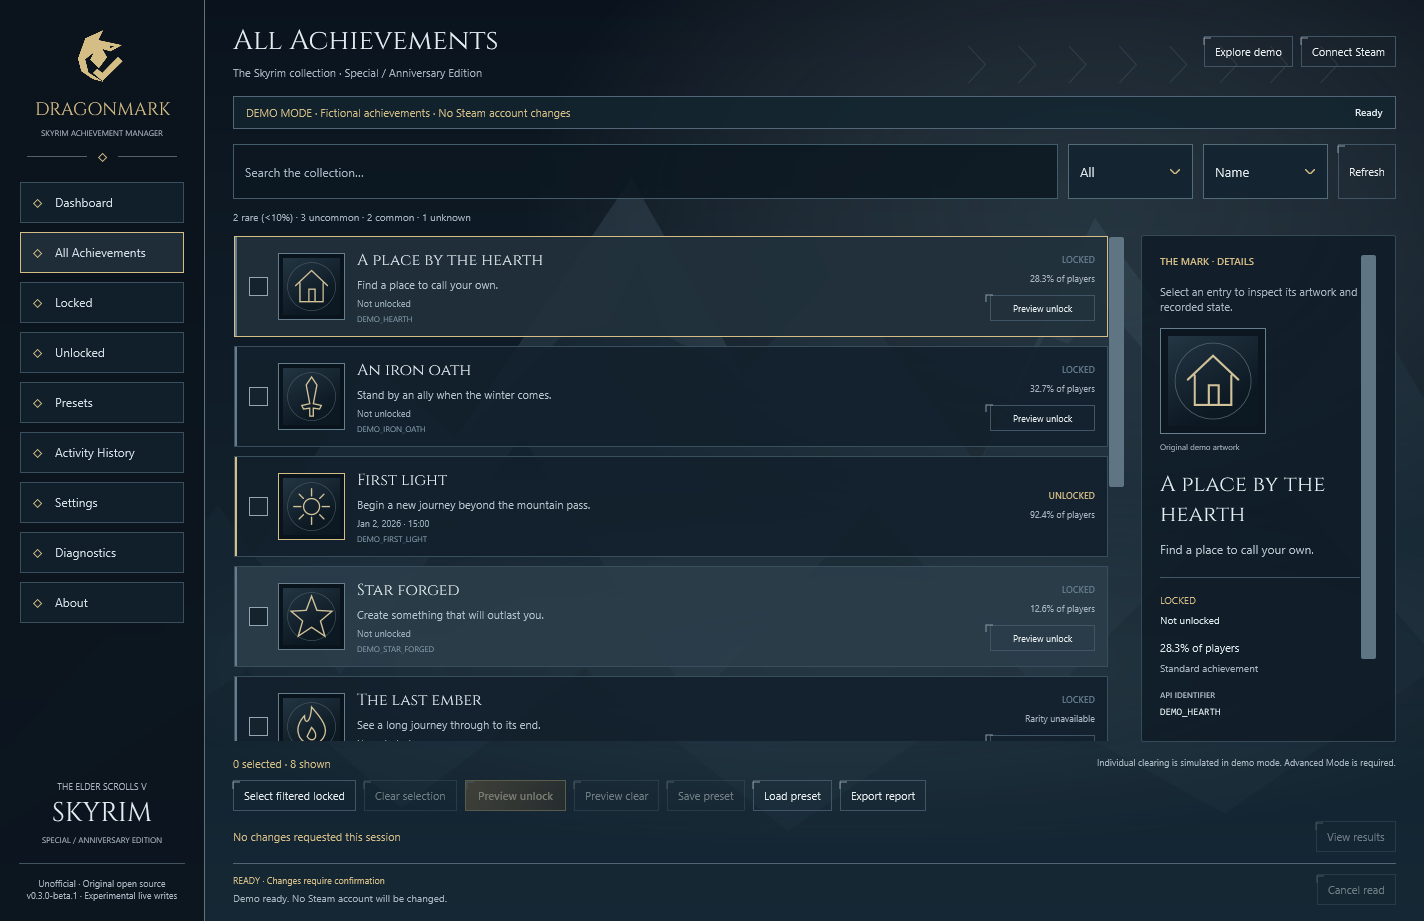
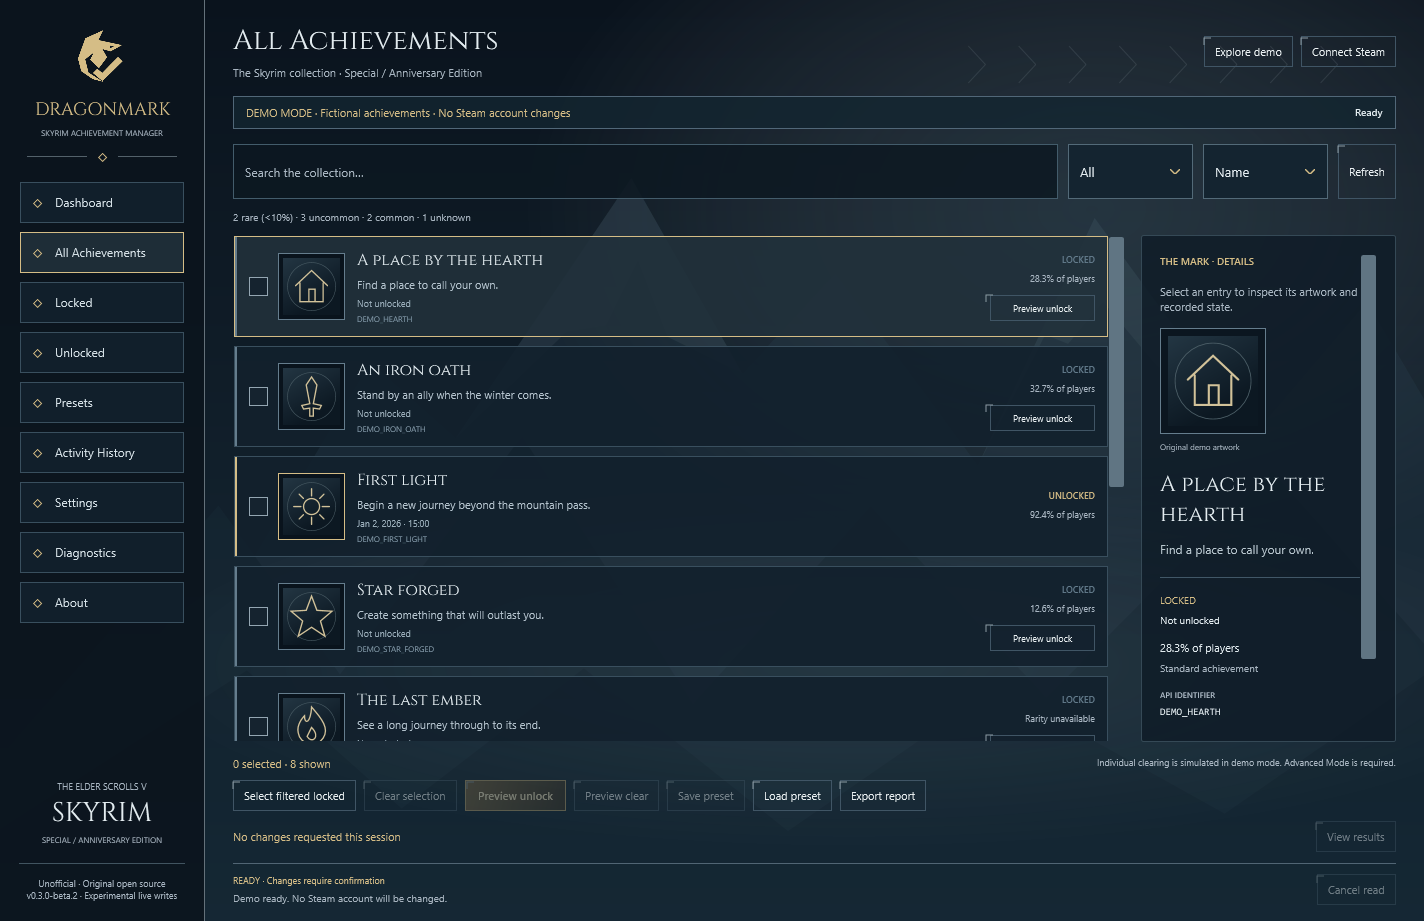
Remove local build paths from release binaries and enforce package privacy

Changed region(s): [[0.1545, 0.608, 0.8034, 0.7296]]

diff --git a/README.tr.md b/README.tr.md
@@ -3,7 +3,7 @@
 ![Dragonmark — Your achievements. A clearer view.](assets/branding/hero.png)
 
 [![Derleme ve test](https://github.com/Memo-B/dragonmark-skyrim-achievement-manager/actions/workflows/ci.yml/badge.svg)](https://github.com/Memo-B/dragonmark-skyrim-achievement-manager/actions/workflows/ci.yml)
-[![Genel beta](https://img.shields.io/badge/release-0.3.0--beta.1-D8BB7D)](https://github.com/Memo-B/dragonmark-skyrim-achievement-manager/releases/tag/v0.3.0-beta.1)
+[![Genel beta](https://img.shields.io/badge/release-0.3.0--beta.1-D8BB7D)](https://github.com/Memo-B/dragonmark-skyrim-achievement-manager/releases/tag/v0.3.0-beta.2)
 [![Windows x64](https://img.shields.io/badge/platform-Windows_x64-0078D4)](docs/compatibility.md)
 [![MIT lisansı](https://img.shields.io/badge/license-MIT-D8BB7D)](LICENSE)
 
@@ -11,7 +11,7 @@
 
 Dragonmark, **Skyrim Special Edition / Anniversary Edition Steam başarımlarını** yönetmek için geliştirilmiş ücretsiz ve açık kaynaklı bir Windows uygulamasıdır. Gerçek Steam görselleriyle koleksiyonunu inceleyebilir, seçtiğin başarımları veya kilitli başarımların tamamını **tek bir açık onayla** açabilirsin.
 
-**[Windows yükleyicisini indir](https://github.com/Memo-B/dragonmark-skyrim-achievement-manager/releases/download/v0.3.0-beta.1/Dragonmark-v0.3.0-beta.1-win-x64-Setup.exe)** · **[Sürüm notları ve dosya özetleri](https://github.com/Memo-B/dragonmark-skyrim-achievement-manager/releases/tag/v0.3.0-beta.1)** · [Taşınabilir ZIP](https://github.com/Memo-B/dragonmark-skyrim-achievement-manager/releases/download/v0.3.0-beta.1/Dragonmark-v0.3.0-beta.1-win-x64.zip)
+**[Windows yükleyicisini indir](https://github.com/Memo-B/dragonmark-skyrim-achievement-manager/releases/download/v0.3.0-beta.2/Dragonmark-v0.3.0-beta.2-win-x64-Setup.exe)** · **[Sürüm notları ve dosya özetleri](https://github.com/Memo-B/dragonmark-skyrim-achievement-manager/releases/tag/v0.3.0-beta.2)** · [Taşınabilir ZIP](https://github.com/Memo-B/dragonmark-skyrim-achievement-manager/releases/download/v0.3.0-beta.2/Dragonmark-v0.3.0-beta.2-win-x64.zip)
 
 [English](README.md) · [Türkçe](README.tr.md) · [Kurulum](docs/installation.md) · [Sorun giderme](docs/troubleshooting.md) · [Yol haritası](ROADMAP.md)
 
@@ -21,7 +21,7 @@ Dragonmark, **Skyrim Special Edition / Anniversary Edition Steam başarımların
 
 ## Üç adımda başla
 
-1. **Kur.** `Dragonmark-v0.3.0-beta.1-win-x64-Setup.exe` dosyasını indirip çalıştır. **Download the verified Steam connection component** seçeneğini seçili bırak. .NET pakete dahildir; küçük Steam bileşenini kurulum indirir. SDK, elle DLL kopyalama veya yönetici yetkisi gerekmez.
+1. **Kur.** `Dragonmark-v0.3.0-beta.2-win-x64-Setup.exe` dosyasını indirip çalıştır. **Download the verified Steam connection component** seçeneğini seçili bırak. .NET pakete dahildir; küçük Steam bileşenini kurulum indirir. SDK, elle DLL kopyalama veya yönetici yetkisi gerekmez.
 2. **Bağlan.** Steam'i açıp Skyrim SE/AE'ye sahip hesabına giriş yap. Başlat menüsünden Dragonmark'ı aç ve **Connect Steam** düğmesine bas.
 3. **İncele ve aç.** Tek tek başarımlar seç veya **Unlock All** düğmesini kullan. Hedef sayısını incele, bir kez onayla ve sonuçları kontrol et.
 
@@ -97,8 +97,8 @@ Yükleyici ve uygulama **dijital olarak imzalanmamıştır**; SmartScreen bilinm
 Aynı sürümden yükleyiciyi ve `.sha256` dosyasını indirip karşılaştır:
 
 ```powershell
-Get-FileHash .\Dragonmark-v0.3.0-beta.1-win-x64-Setup.exe -Algorithm SHA256
-Get-Content .\Dragonmark-v0.3.0-beta.1-win-x64-Setup.exe.sha256
+Get-FileHash .\Dragonmark-v0.3.0-beta.2-win-x64-Setup.exe -Algorithm SHA256
+Get-Content .\Dragonmark-v0.3.0-beta.2-win-x64-Setup.exe.sha256
 ```
 
 Kurulum, Steam bileşenini sabitlenmiş resmî Steamworks.NET etiketinden HTTPS ile indirir ve SHA-256 eşleşmezse reddeder. Uygulamanın kendisi çalıştırılabilir kod indirmez. Valve DLL'si yayımlanan yükleyici veya ZIP'in içine gömülmez. Dosya özeti bütünlüğü denetler; ilgisiz bir indirme sitesinin güvenilirliğini kanıtlamaz.

diff --git a/README.md b/README.md
@@ -3,7 +3,7 @@
 ![Dragonmark — Your achievements. A clearer view.](assets/branding/hero.png)
 
 [![Build and test](https://github.com/Memo-B/dragonmark-skyrim-achievement-manager/actions/workflows/ci.yml/badge.svg)](https://github.com/Memo-B/dragonmark-skyrim-achievement-manager/actions/workflows/ci.yml)
-[![Public beta](https://img.shields.io/badge/release-0.3.0--beta.1-D8BB7D)](https://github.com/Memo-B/dragonmark-skyrim-achievement-manager/releases/tag/v0.3.0-beta.1)
+[![Public beta](https://img.shields.io/badge/release-0.3.0--beta.1-D8BB7D)](https://github.com/Memo-B/dragonmark-skyrim-achievement-manager/releases/tag/v0.3.0-beta.2)
 [![Windows x64](https://img.shields.io/badge/platform-Windows_x64-0078D4)](docs/compatibility.md)
 [![MIT license](https://img.shields.io/badge/license-MIT-D8BB7D)](LICENSE)
 
@@ -11,7 +11,7 @@
 
 Dragonmark is a free, open-source Windows application for **Skyrim Special Edition / Anniversary Edition Steam achievements**. Browse authentic achievement artwork, inspect progress and rarity, unlock selected entries, or unlock every missing achievement with **one explicit confirmation**.
 
-**[Download Windows installer](https://github.com/Memo-B/dragonmark-skyrim-achievement-manager/releases/download/v0.3.0-beta.1/Dragonmark-v0.3.0-beta.1-win-x64-Setup.exe)** · **[Release notes & checksums](https://github.com/Memo-B/dragonmark-skyrim-achievement-manager/releases/tag/v0.3.0-beta.1)** · [Portable ZIP](https://github.com/Memo-B/dragonmark-skyrim-achievement-manager/releases/download/v0.3.0-beta.1/Dragonmark-v0.3.0-beta.1-win-x64.zip)
+**[Download Windows installer](https://github.com/Memo-B/dragonmark-skyrim-achievement-manager/releases/download/v0.3.0-beta.2/Dragonmark-v0.3.0-beta.2-win-x64-Setup.exe)** · **[Release notes & checksums](https://github.com/Memo-B/dragonmark-skyrim-achievement-manager/releases/tag/v0.3.0-beta.2)** · [Portable ZIP](https://github.com/Memo-B/dragonmark-skyrim-achievement-manager/releases/download/v0.3.0-beta.2/Dragonmark-v0.3.0-beta.2-win-x64.zip)
 
 [English](README.md) · [Türkçe](README.tr.md) · [Installation](docs/installation.md) · [Troubleshooting](docs/troubleshooting.md) · [Roadmap](ROADMAP.md)
 
@@ -21,7 +21,7 @@ Dragonmark is a free, open-source Windows application for **Skyrim Special Editi
 
 ## Start in three steps
 
-1. **Install.** Download `Dragonmark-v0.3.0-beta.1-win-x64-Setup.exe` and run it. Leave **Download the verified Steam connection component** selected. Setup includes .NET and handles the small Steam component download; no SDK, manual DLL copying or administrator rights are needed.
+1. **Install.** Download `Dragonmark-v0.3.0-beta.2-win-x64-Setup.exe` and run it. Leave **Download the verified Steam connection component** selected. Setup includes .NET and handles the small Steam component download; no SDK, manual DLL copying or administrator rights are needed.
 2. **Connect.** Start Steam, sign in to your account with Skyrim SE/AE, launch Dragonmark from the Start Menu and click **Connect Steam**.
 3. **Review and unlock.** Select individual achievements or click **Unlock All**. Review the target count, confirm once, then inspect the results.
 
@@ -97,8 +97,8 @@ The installer and app are **unsigned**, so Windows SmartScreen may show an unkno
 Download the installer and its `.sha256` file from the same release, then compare:
 
 ```powershell
-Get-FileHash .\Dragonmark-v0.3.0-beta.1-win-x64-Setup.exe -Algorithm SHA256
-Get-Content .\Dragonmark-v0.3.0-beta.1-win-x64-Setup.exe.sha256
+Get-FileHash .\Dragonmark-v0.3.0-beta.2-win-x64-Setup.exe -Algorithm SHA256
+Get-Content .\Dragonmark-v0.3.0-beta.2-win-x64-Setup.exe.sha256
 ```
 
 Setup retrieves its Steam component from a pinned official Steamworks.NET tag over HTTPS and rejects a mismatched SHA-256. The application itself never downloads executable code. The Valve native binary is not embedded in the published installer or ZIP. A checksum checks integrity; it does not establish trust in an unrelated download site.

diff --git a/docs/PUBLISHING.md b/docs/PUBLISHING.md
@@ -1,6 +1,6 @@
 # Publishing Dragonmark
 
-Repository: [Memo-B/dragonmark-skyrim-achievement-manager](https://github.com/Memo-B/dragonmark-skyrim-achievement-manager). The owner authorized the first source push and public release after reporting successful individual unlock and Unlock All tests. The first public version is **0.3.0-beta.1**, a prerelease with explicit remaining compatibility checks.
+Repository: [Memo-B/dragonmark-skyrim-achievement-manager](https://github.com/Memo-B/dragonmark-skyrim-achievement-manager). The owner authorized the first source push and public release after reporting successful individual unlock and Unlock All tests. The first public version is **0.3.0-beta.2**, a prerelease with explicit remaining compatibility checks.
 
 ## Build and review
 
@@ -27,7 +27,7 @@ git add .
 git diff --cached --check
 git diff --cached --stat
 git diff --cached
-git commit -m "Release Dragonmark 0.3.0-beta.1 with Windows installer"
+git commit -m "Release Dragonmark 0.3.0-beta.2 with Windows installer"
 git push -u origin main
 ```
 
@@ -38,8 +38,8 @@ gh run list --repo Memo-B/dragonmark-skyrim-achievement-manager
 gh run watch RUN_ID --repo Memo-B/dragonmark-skyrim-achievement-manager --exit-status
 $metadata = Get-Content .github/repository-metadata.json -Raw | ConvertFrom-Json
 gh repo edit $metadata.repository --description $metadata.description --add-topic ($metadata.topics -join ',')
-git tag -a v0.3.0-beta.1 -m "Dragonmark 0.3.0-beta.1 public beta"
-git push origin v0.3.0-beta.1
+git tag -a v0.3.0-beta.2 -m "Dragonmark 0.3.0-beta.2 public beta"
+git push origin v0.3.0-beta.2
 ```
 
 The metadata file contains the exact About description and 15 relevant topics. No homepage or SKSE integration is invented. Upload `assets/branding/social-preview.png` through **Repository Settings → General → Social preview**. Current screenshots appear in both READMEs and tag-scoped release notes.
@@ -47,7 +47,7 @@ The metadata file contains the exact About description and 15 relevant topics. N
 ## Publish the reviewed artifacts
 
 ```powershell
-gh release create v0.3.0-beta.1 .\artifacts\Dragonmark-v0.3.0-beta.1-win-x64-Setup.exe .\artifacts\Dragonmark-v0.3.0-beta.1-win-x64-Setup.exe.sha256 .\artifacts\Dragonmark-v0.3.0-beta.1-win-x64.zip .\artifacts\Dragonmark-v0.3.0-beta.1-win-x64.zip.sha256 --repo Memo-B/dragonmark-skyrim-achievement-manager --verify-tag --prerelease --title "Dragonmark 0.3.0-beta.1 — Windows installer" --notes-file .\artifacts\RELEASE_NOTES-v0.3.0-beta.1.md
+gh release create v0.3.0-beta.2 .\artifacts\Dragonmark-v0.3.0-beta.2-win-x64-Setup.exe .\artifacts\Dragonmark-v0.3.0-beta.2-win-x64-Setup.exe.sha256 .\artifacts\Dragonmark-v0.3.0-beta.2-win-x64.zip .\artifacts\Dragonmark-v0.3.0-beta.2-win-x64.zip.sha256 --repo Memo-B/dragonmark-skyrim-achievement-manager --verify-tag --prerelease --title "Dragonmark 0.3.0-beta.2 — Windows installer" --notes-file .\artifacts\RELEASE_NOTES-v0.3.0-beta.2.md
 ```
 
 Verify all four public assets and their checksums after publication. Use the explicit version's release URL in documentation because GitHub's `/releases/latest` excludes prereleases. Do not claim passing hosted checks from local tests alone. Future versions should bump `Directory.Build.props`, regenerate screenshots, update documentation, rebuild and repeat validation.

diff --git a/RELEASE_NOTES.md b/RELEASE_NOTES.md
@@ -1,14 +1,16 @@
-# Dragonmark 0.3.0-beta.1 · Skyrim Achievement Manager
+# Dragonmark 0.3.0-beta.2 · Skyrim Achievement Manager
 
-**First public Windows x64 beta.** Browse Skyrim SE/AE Steam achievements, inspect authentic artwork and unlock selected or all missing entries through one explicit confirmation.
+This replaces the withdrawn beta.1 download. An audit found local build-directory paths in the PE debug metadata of four application DLLs. Release builds now disable debug metadata and map source paths to a neutral root. Packaging scans binary contents and refuses Windows profile paths, Steam account identifier patterns and private/debug files. No Steam account ID, settings, snapshot or activity log was found in the audited release payload. This fixes build metadata; achievement operation behavior is unchanged.
+
+**Windows x64 beta — build metadata privacy fix.** Browse Skyrim SE/AE Steam achievements, inspect authentic artwork and unlock selected or all missing entries through one explicit confirmation.
 
 The owner reported successful individual unlock and **Unlock All** tests on a real Steam account on 2026-11-09. Earlier read-only testing retrieved all 75 achievements and 75 current-state icons. This is local and owner-reported evidence; independent restart-persistence and broader-machine validation remain pending. Live clearing stays disabled.
 
-![Dragonmark 0.3.0-beta.1 running in Demo Mode](assets/screenshots/dashboard.png)
+![Dragonmark 0.3.0-beta.2 running in Demo Mode](assets/screenshots/dashboard.png)
 
 ## Download and install
 
-Choose **Dragonmark-v0.3.0-beta.1-win-x64-Setup.exe** from this release's assets. Run Setup, keep **Download the verified Steam connection component** selected, and finish the wizard. .NET is included; no SDK or manual DLL copying is needed. Setup downloads the small pinned component from the official Steamworks.NET tag and verifies its SHA-256 before installing files. Internet is required for live setup. The native binary is not embedded in the installer.
+Choose **Dragonmark-v0.3.0-beta.2-win-x64-Setup.exe** from this release's assets. Run Setup, keep **Download the verified Steam connection component** selected, and finish the wizard. .NET is included; no SDK or manual DLL copying is needed. Setup downloads the small pinned component from the official Steamworks.NET tag and verifies its SHA-256 before installing files. Internet is required for live setup. The native binary is not embedded in the installer.
 
 Start Steam, sign in to your licensed Skyrim account, launch Dragonmark and select **Connect Steam**. No administrator rights, Steam password, SKSE or game-file patch is required. For offline demo, deselect the Steam component during Setup.
 

diff --git a/docs/VALIDATION.md b/docs/VALIDATION.md
@@ -1,4 +1,4 @@
-# Dragonmark validation · 0.3.0-beta.1
+# Dragonmark validation · 0.3.0-beta.2
 
 Evidence date: **2026-11-09**. Build/test evidence and real Steam evidence are intentionally separated.
 
@@ -38,4 +38,4 @@ The self-contained prerelease package is generated by `scripts/Package.ps1` with
 
 ## Windows installer verification
 
-The 0.3.0-beta.1 installer was exercised in isolated local directories. The selected Steam task downloaded the exact pinned native binary; installation and a self-contained demo launch exited successfully. Uninstallation removed the application and downloaded native binary. A separate install with the Steam task deselected included no native binary, launched the demo successfully and uninstalled successfully. All process exit codes were zero. These were unattended installer-path tests; they do not claim a full physical keyboard/screen-reader review. The final packaging pass includes the installer compiler license and preserves the same tested install script and application behavior.
+The 0.3.0-beta.2 installer was exercised in isolated local directories. The selected Steam task downloaded the exact pinned native binary; installation and a self-contained demo launch exited successfully. Uninstallation removed the application and downloaded native binary. A separate install with the Steam task deselected included no native binary, launched the demo successfully and uninstalled successfully. All process exit codes were zero. These were unattended installer-path tests; they do not claim a full physical keyboard/screen-reader review. The final packaging pass includes the installer compiler license and preserves the same tested install script and application behavior.

diff --git a/SECURITY.md b/SECURITY.md
@@ -17,3 +17,7 @@ Include affected version, impact, safe reproduction steps and suggested mitigati
 Preview binaries are unsigned. Verify archive checksums and source provenance. The explicit developer setup accepts the pinned Valve-signed library. Public packaging omits that proprietary binary pending redistribution review. The desktop app contains no runtime code downloader. The installer offers a visible Steam-component task that downloads from the official Steamworks.NET tag and checks the pinned SHA-256 before copying any application files. A valid signature proves provenance, not redistribution permission.
 
 Dependency audit results describe known advisories at a point in time, not a security certification. An uncertain Steam operation may persist later; do not treat failure or timeout as rollback. See [Steam integration](docs/steam-integration.md).
+
+## Release build privacy
+
+Release builds disable debug output and normalize source paths. Packaging and installer compilation run `scripts/Check-PackagePrivacy.ps1` against actual binary contents, not only file names. This blocks embedded Windows profile paths, Steam account identifier patterns and private/debug files. Beta.1 downloads were withdrawn after embedded build paths were discovered; use beta.2 or later. The audit did not find Steam account IDs or local settings/history in that payload.

diff --git a/docs/visual-design.md b/docs/visual-design.md
@@ -36,4 +36,4 @@ Ctrl+F focuses search, F5 refreshes, standard Tab/arrow navigation is retained, 
 
 ## Captures and resolution checks
 
-The [seven public screenshots](../assets/screenshots/README.md) come from the actual compiled `0.3.0-beta.1` WPF application and an isolated demo profile. The capture path cannot connect to Steam and never confirms a write. Additional local QA captures cover presets, history, About, locked/unlocked, empty search, 1100 × 740 window layout and a 150% raster render. The measured WPF capture environment was 96 DPI; a separate real 150% monitor/per-monitor DPI and full screen-reader pass remain unverified. Raster scaling is not claimed to replace those tests.
+The [seven public screenshots](../assets/screenshots/README.md) come from the actual compiled `0.3.0-beta.2` WPF application and an isolated demo profile. The capture path cannot connect to Steam and never confirms a write. Additional local QA captures cover presets, history, About, locked/unlocked, empty search, 1100 × 740 window layout and a 150% raster render. The measured WPF capture environment was 96 DPI; a separate real 150% monitor/per-monitor DPI and full screen-reader pass remain unverified. Raster scaling is not claimed to replace those tests.

diff --git a/docs/installation.md b/docs/installation.md
@@ -1,15 +1,15 @@
 # Install Dragonmark
 
-Current release: **0.3.0-beta.1** for Windows x64. Use only the [official release page](https://github.com/Memo-B/dragonmark-skyrim-achievement-manager/releases/tag/v0.3.0-beta.1).
+Current release: **0.3.0-beta.2** for Windows x64. Use only the [official release page](https://github.com/Memo-B/dragonmark-skyrim-achievement-manager/releases/tag/v0.3.0-beta.2).
 
 ## Recommended: Windows installer
 
-1. Download `Dragonmark-v0.3.0-beta.1-win-x64-Setup.exe` and its `.sha256` file.
+1. Download `Dragonmark-v0.3.0-beta.2-win-x64-Setup.exe` and its `.sha256` file.
 2. Compare the file hash with the sidecar:
 
    ```powershell
-   Get-FileHash .\Dragonmark-v0.3.0-beta.1-win-x64-Setup.exe -Algorithm SHA256
-   Get-Content .\Dragonmark-v0.3.0-beta.1-win-x64-Setup.exe.sha256
+   Get-FileHash .\Dragonmark-v0.3.0-beta.2-win-x64-Setup.exe -Algorithm SHA256
+   Get-Content .\Dragonmark-v0.3.0-beta.2-win-x64-Setup.exe.sha256
    ```
 
 3. Run Setup. It installs for the current Windows user without administrator privileges. The default location is `%LOCALAPPDATA%\Programs\Dragonmark`.

diff --git a/docs/SCREENSHOTS.md b/docs/SCREENSHOTS.md
@@ -21,4 +21,4 @@ dotnet src/Dragonmark.App/bin/Release/net10.0-windows/win-x64/Dragonmark.dll --d
 
 Both require an absolute output path and `--demo`. Captures use a fresh temporary profile rather than ordinary settings, snapshots or personal theme artwork. The suite opens the actual production confirmation layout and closes it without confirming. It uses WPF rendering at 96 DPI for sharp, consistently cropped content; no UI is composited or redrawn afterward. The QA scale render is a raster check, not proof of per-monitor DPI behavior.
 
-Inspect every image for clipping and privacy before committing. Demo Mode must stay visible. Do not package private native logs or real-account screenshots. Regenerate after changing layout, product version, branding or captions. Public images correspond to **0.3.0-beta.1**.
+Inspect every image for clipping and privacy before committing. Demo Mode must stay visible. Do not package private native logs or real-account screenshots. Regenerate after changing layout, product version, branding or captions. Public images correspond to **0.3.0-beta.2**.

diff --git a/CHANGELOG.md b/CHANGELOG.md
@@ -1,5 +1,15 @@
 # Changelog
 
+## 0.3.0-beta.2 — 2026-11-09
+
+- Withdrew the beta.1 binary downloads after finding local build paths in PE debug metadata in four application DLLs.
+- Disabled Release debug metadata and mapped build source paths to a neutral root.
+- Added a mandatory binary/text privacy gate before ZIP packaging and installer compilation; it rejects Windows profile paths, Steam ID patterns and private/debug files.
+- Removed detailed local Windows edition/build information from current compatibility documentation.
+- No Steam account identifier, private account snapshot, settings or activity log was found in the audited beta.1 payload. Existing copies cannot be recalled.
+- Achievement operation behavior is unchanged.
+
+
 ## 0.3.0-beta.1 — 2026-11-09
 
 - First public beta, following owner-reported successful individual unlock and Unlock All testing on a real Steam account.

diff --git a/docs/compatibility.md b/docs/compatibility.md
@@ -4,7 +4,7 @@ Evidence recorded on **2026-11-09**. Target support is not equivalent to a compl
 
 | Component | Target | Observed evidence |
 | --- | --- | --- |
-| OS | Windows 10/11 x64 | Windows 11 Home Single Language, build 26300, tested locally; Windows 10 untested |
+| OS | Windows 10/11 x64 | Windows 11 x64 tested locally; Windows 10 untested |
 | CPU | x64 | x64 build and portable launch verified; ARM64/native x86 unsupported |
 | Source SDK | .NET 10; global.json pins 10.0.100 with latestFeature roll-forward | 10.0.100 used locally |
 | Portable runtime | .NET / Windows Desktop 10.0.14 | Included in self-contained Windows package; no external runtime needed |
